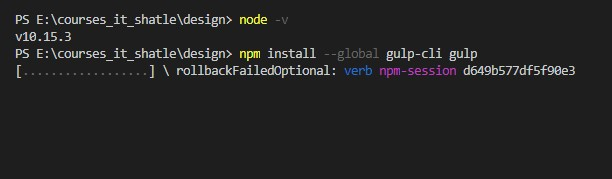
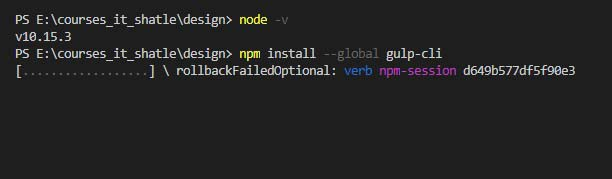
fix

diff --git a/fonts.html b/fonts.html
@@ -7,7 +7,7 @@
     <meta name="format-detection" content="telephone=no">
     <meta name="viewport" content="width=device-width, initial-scale=1.0">
     <meta name="description" content="">
-    <title>Media Queries</title>
+    <title>Шрифты</title>
     <link rel="apple-touch-icon" sizes="180x180" href="./favicon/apple-touch-icon.png">
     <link rel="icon" type="image/png" sizes="32x32" href="./favicon/favicon-32x32.png">
     <link rel="icon" type="image/png" sizes="16x16" href="./favicon/favicon-16x16.png">
@@ -111,46 +111,17 @@
       <div class="main">
         <div class="container">
           <div class="box">
-            <h1 class="box__h1">Media Queries</h1>
-            <h2 class="box__h2">#1 Основные концепции</h2>
-            <ul class="box__list">
-              <li>гибкая/резиновая верстка</li>
-              <li>адаптивная верстка</li>
-            </ul>
-          </div>
-          <div class="box">
-            <h2 class="box__h2">#2 Основы</h2>
+            <h1 class="box__h1">Шрифты</h1>
+            <h2 class="box__h2">#1 Основная инфо</h2>
             <dl class="box__term">
-              <dt>Viewport</dt>
-              <dd>это область на экране устройства, которая видна пользователю без прокрутки экрана.</dd>
-              <dd><img class="box__screen" src="./assets/imgs/media.jpg"></dd>
+              <dt>Плагин для figma позволяющий просмотреть все шрифты используемые в макете</dt>
+              <dd><span class="alert"><a href="https://www.figma.com/community/plugin/746097413727734148/Font-Fascia" target="_blank">Font-Fascia</a></span></dd>
             </dl>
             <dl class="box__term">
-              <dt>Media Queries(Медиазапросы)</dt>
-              <dd>используются в тех случаях , когда нужно применить разные CSS-стили, для разных устройств по типу отображения (например: для принтера, монитора или смартфона), а также конкретных характеристик устройства  (например: ширины окна просмотра браузера), или внешней среды (например: внешнее освещение).</dd>
-              <dd>Медиа запросы позволяют адаптировать страницу для различных типов устройств, таких как: принтеры, речевых браузеров, устройств Брайля, телевизоров и так далее.</dd>
-              <dd><span class="alert"><a href="https://developer.mozilla.org/en-US/docs/Web/CSS/@media#media_types" target="_blank">Все виды устройств и их поддержка</a></span></dd>
-            </dl>
-            <dl class="box__term">
-              <dt>Примеры</dt>
-              <dd><img class="box__screen" src="./assets/imgs/media1.jpg"></dd>
-              <dd><img class="box__screen" src="./assets/imgs/media2.png" width="250"></dd>
-            </dl>
-          </div>
-          <div class="box">
-            <h2 class="box__h2">#3 Breakpoints</h2>
-            <dl class="box__term">
-              <dt>Breakpoints(ключевые точки)</dt>
-              <dd>при разработке вы можете использовать любые breakpoints, но лучше определиться с 4-6 основными точками и везде использовать их. Помимо этого, существуют самые популярные размеры устройств, которыми пользуются юзеры. Их можно посмотреть в интернете либо в самом браузере.</dd>
-              <dd><img class="box__screen" src="./assets/imgs/media2.jpg"></dd>
-            </dl>
-          </div>
-          <div class="box">
-            <h2 class="box__h2">#4 Подходы</h2>
-            <dl class="box__term">
-              <dt>Mobile first</dt>
-              <dd>это верстка которая делается сначала для мобильных устройств, а после адаптируется под девайсы с большим разрешением.</dd>
-              <dd>Основное преимущество такого подхода - можно в разы сократить нагрузку на мобильные устройства при загрузке.</dd>
+              <dt>Сервисы где можно взять нужные шрифты:</dt>
+              <dd><span class="alert"><a href="https://fonts.google.com/" target="_blank">Google Fonts</a></span></dd>
+              <dd><span class="alert"><a href="https://webfonts.pro/" target="_blank">Webfonts</a>
+                  <!--https://google-webfonts-helper.herokuapp.com/fonts/bree-serif?subsets=latin--></span></dd>
             </dl>
           </div>
         </div>

diff --git a/css_transition.html b/css_transition.html
@@ -53,8 +53,8 @@
                 <li class="nav__item"><a class="nav__link" href="gradients.html">CSS градиенты</a>
                 </li>
                 <!--где-то здесь первая тестовая работа ДЗ-->
-                <!--+e('li').__item+e('a').__link.opacity(href="") Шрифты
-                -->
+                <li class="nav__item"><a class="nav__link" href="fonts.html">Шрифты</a>
+                </li>
                 <!--+e('li').__item
                 +e('a').__link.opacity(href="") Изображения
                 // Теги. Форматы изображений. Оптимизация изображений
@@ -109,6 +109,13 @@
         </div>
       </header>
       <div class="main">
+        <div class="block">
+          <div class="block__title">Заголовок блока</div>
+          <div class="block__body">
+            <div class="block__element"></div>
+            <div class="block__img-wrap"><img class="block__img" src="" alt="картинка"></div>
+          </div>
+        </div>
         <div class="container">
           <div class="box">
             <h1 class="box__h1">CSS3-transition</h1>

diff --git a/gulp.html b/gulp.html
@@ -53,8 +53,8 @@
                 <li class="nav__item"><a class="nav__link" href="gradients.html">CSS градиенты</a>
                 </li>
                 <!--где-то здесь первая тестовая работа ДЗ-->
-                <!--+e('li').__item+e('a').__link.opacity(href="") Шрифты
-                -->
+                <li class="nav__item"><a class="nav__link" href="fonts.html">Шрифты</a>
+                </li>
                 <!--+e('li').__item
                 +e('a').__link.opacity(href="") Изображения
                 // Теги. Форматы изображений. Оптимизация изображений
@@ -152,7 +152,7 @@
             </dl>
             <dl class="box__term">
               <dt>Установка gulp глобально</dt>
-              <dd>npm install --global gulp-cli gulp</dd>
+              <dd>npm install --global gulp-cli</dd>
               <p><img class="box__screen" src="./assets/imgs/gulp.jpg"></p>
               <dd>проверка версии gulp -v</dd>
             </dl>

diff --git a/bem.html b/bem.html
@@ -53,8 +53,8 @@
                 <li class="nav__item"><a class="nav__link" href="gradients.html">CSS градиенты</a>
                 </li>
                 <!--где-то здесь первая тестовая работа ДЗ-->
-                <!--+e('li').__item+e('a').__link.opacity(href="") Шрифты
-                -->
+                <li class="nav__item"><a class="nav__link" href="fonts.html">Шрифты</a>
+                </li>
                 <!--+e('li').__item
                 +e('a').__link.opacity(href="") Изображения
                 // Теги. Форматы изображений. Оптимизация изображений

diff --git a/crossbr.html b/crossbr.html
@@ -53,8 +53,8 @@
                 <li class="nav__item"><a class="nav__link" href="gradients.html">CSS градиенты</a>
                 </li>
                 <!--где-то здесь первая тестовая работа ДЗ-->
-                <!--+e('li').__item+e('a').__link.opacity(href="") Шрифты
-                -->
+                <li class="nav__item"><a class="nav__link" href="fonts.html">Шрифты</a>
+                </li>
                 <!--+e('li').__item
                 +e('a').__link.opacity(href="") Изображения
                 // Теги. Форматы изображений. Оптимизация изображений

diff --git a/css.html b/css.html
@@ -53,8 +53,8 @@
                 <li class="nav__item"><a class="nav__link" href="gradients.html">CSS градиенты</a>
                 </li>
                 <!--где-то здесь первая тестовая работа ДЗ-->
-                <!--+e('li').__item+e('a').__link.opacity(href="") Шрифты
-                -->
+                <li class="nav__item"><a class="nav__link" href="fonts.html">Шрифты</a>
+                </li>
                 <!--+e('li').__item
                 +e('a').__link.opacity(href="") Изображения
                 // Теги. Форматы изображений. Оптимизация изображений

diff --git a/css_animation.html b/css_animation.html
@@ -53,8 +53,8 @@
                 <li class="nav__item"><a class="nav__link" href="gradients.html">CSS градиенты</a>
                 </li>
                 <!--где-то здесь первая тестовая работа ДЗ-->
-                <!--+e('li').__item+e('a').__link.opacity(href="") Шрифты
-                -->
+                <li class="nav__item"><a class="nav__link" href="fonts.html">Шрифты</a>
+                </li>
                 <!--+e('li').__item
                 +e('a').__link.opacity(href="") Изображения
                 // Теги. Форматы изображений. Оптимизация изображений

diff --git a/css_base.html b/css_base.html
@@ -53,8 +53,8 @@
                 <li class="nav__item"><a class="nav__link" href="gradients.html">CSS градиенты</a>
                 </li>
                 <!--где-то здесь первая тестовая работа ДЗ-->
-                <!--+e('li').__item+e('a').__link.opacity(href="") Шрифты
-                -->
+                <li class="nav__item"><a class="nav__link" href="fonts.html">Шрифты</a>
+                </li>
                 <!--+e('li').__item
                 +e('a').__link.opacity(href="") Изображения
                 // Теги. Форматы изображений. Оптимизация изображений

diff --git a/css_selectors.html b/css_selectors.html
@@ -53,8 +53,8 @@
                 <li class="nav__item"><a class="nav__link" href="gradients.html">CSS градиенты</a>
                 </li>
                 <!--где-то здесь первая тестовая работа ДЗ-->
-                <!--+e('li').__item+e('a').__link.opacity(href="") Шрифты
-                -->
+                <li class="nav__item"><a class="nav__link" href="fonts.html">Шрифты</a>
+                </li>
                 <!--+e('li').__item
                 +e('a').__link.opacity(href="") Изображения
                 // Теги. Форматы изображений. Оптимизация изображений

diff --git a/css_transformation.html b/css_transformation.html
@@ -53,8 +53,8 @@
                 <li class="nav__item"><a class="nav__link" href="gradients.html">CSS градиенты</a>
                 </li>
                 <!--где-то здесь первая тестовая работа ДЗ-->
-                <!--+e('li').__item+e('a').__link.opacity(href="") Шрифты
-                -->
+                <li class="nav__item"><a class="nav__link" href="fonts.html">Шрифты</a>
+                </li>
                 <!--+e('li').__item
                 +e('a').__link.opacity(href="") Изображения
                 // Теги. Форматы изображений. Оптимизация изображений

diff --git a/devtools.html b/devtools.html
@@ -53,8 +53,8 @@
                 <li class="nav__item"><a class="nav__link" href="gradients.html">CSS градиенты</a>
                 </li>
                 <!--где-то здесь первая тестовая работа ДЗ-->
-                <!--+e('li').__item+e('a').__link.opacity(href="") Шрифты
-                -->
+                <li class="nav__item"><a class="nav__link" href="fonts.html">Шрифты</a>
+                </li>
                 <!--+e('li').__item
                 +e('a').__link.opacity(href="") Изображения
                 // Теги. Форматы изображений. Оптимизация изображений

diff --git a/flex.html b/flex.html
@@ -53,8 +53,8 @@
                 <li class="nav__item"><a class="nav__link" href="gradients.html">CSS градиенты</a>
                 </li>
                 <!--где-то здесь первая тестовая работа ДЗ-->
-                <!--+e('li').__item+e('a').__link.opacity(href="") Шрифты
-                -->
+                <li class="nav__item"><a class="nav__link" href="fonts.html">Шрифты</a>
+                </li>
                 <!--+e('li').__item
                 +e('a').__link.opacity(href="") Изображения
                 // Теги. Форматы изображений. Оптимизация изображений
